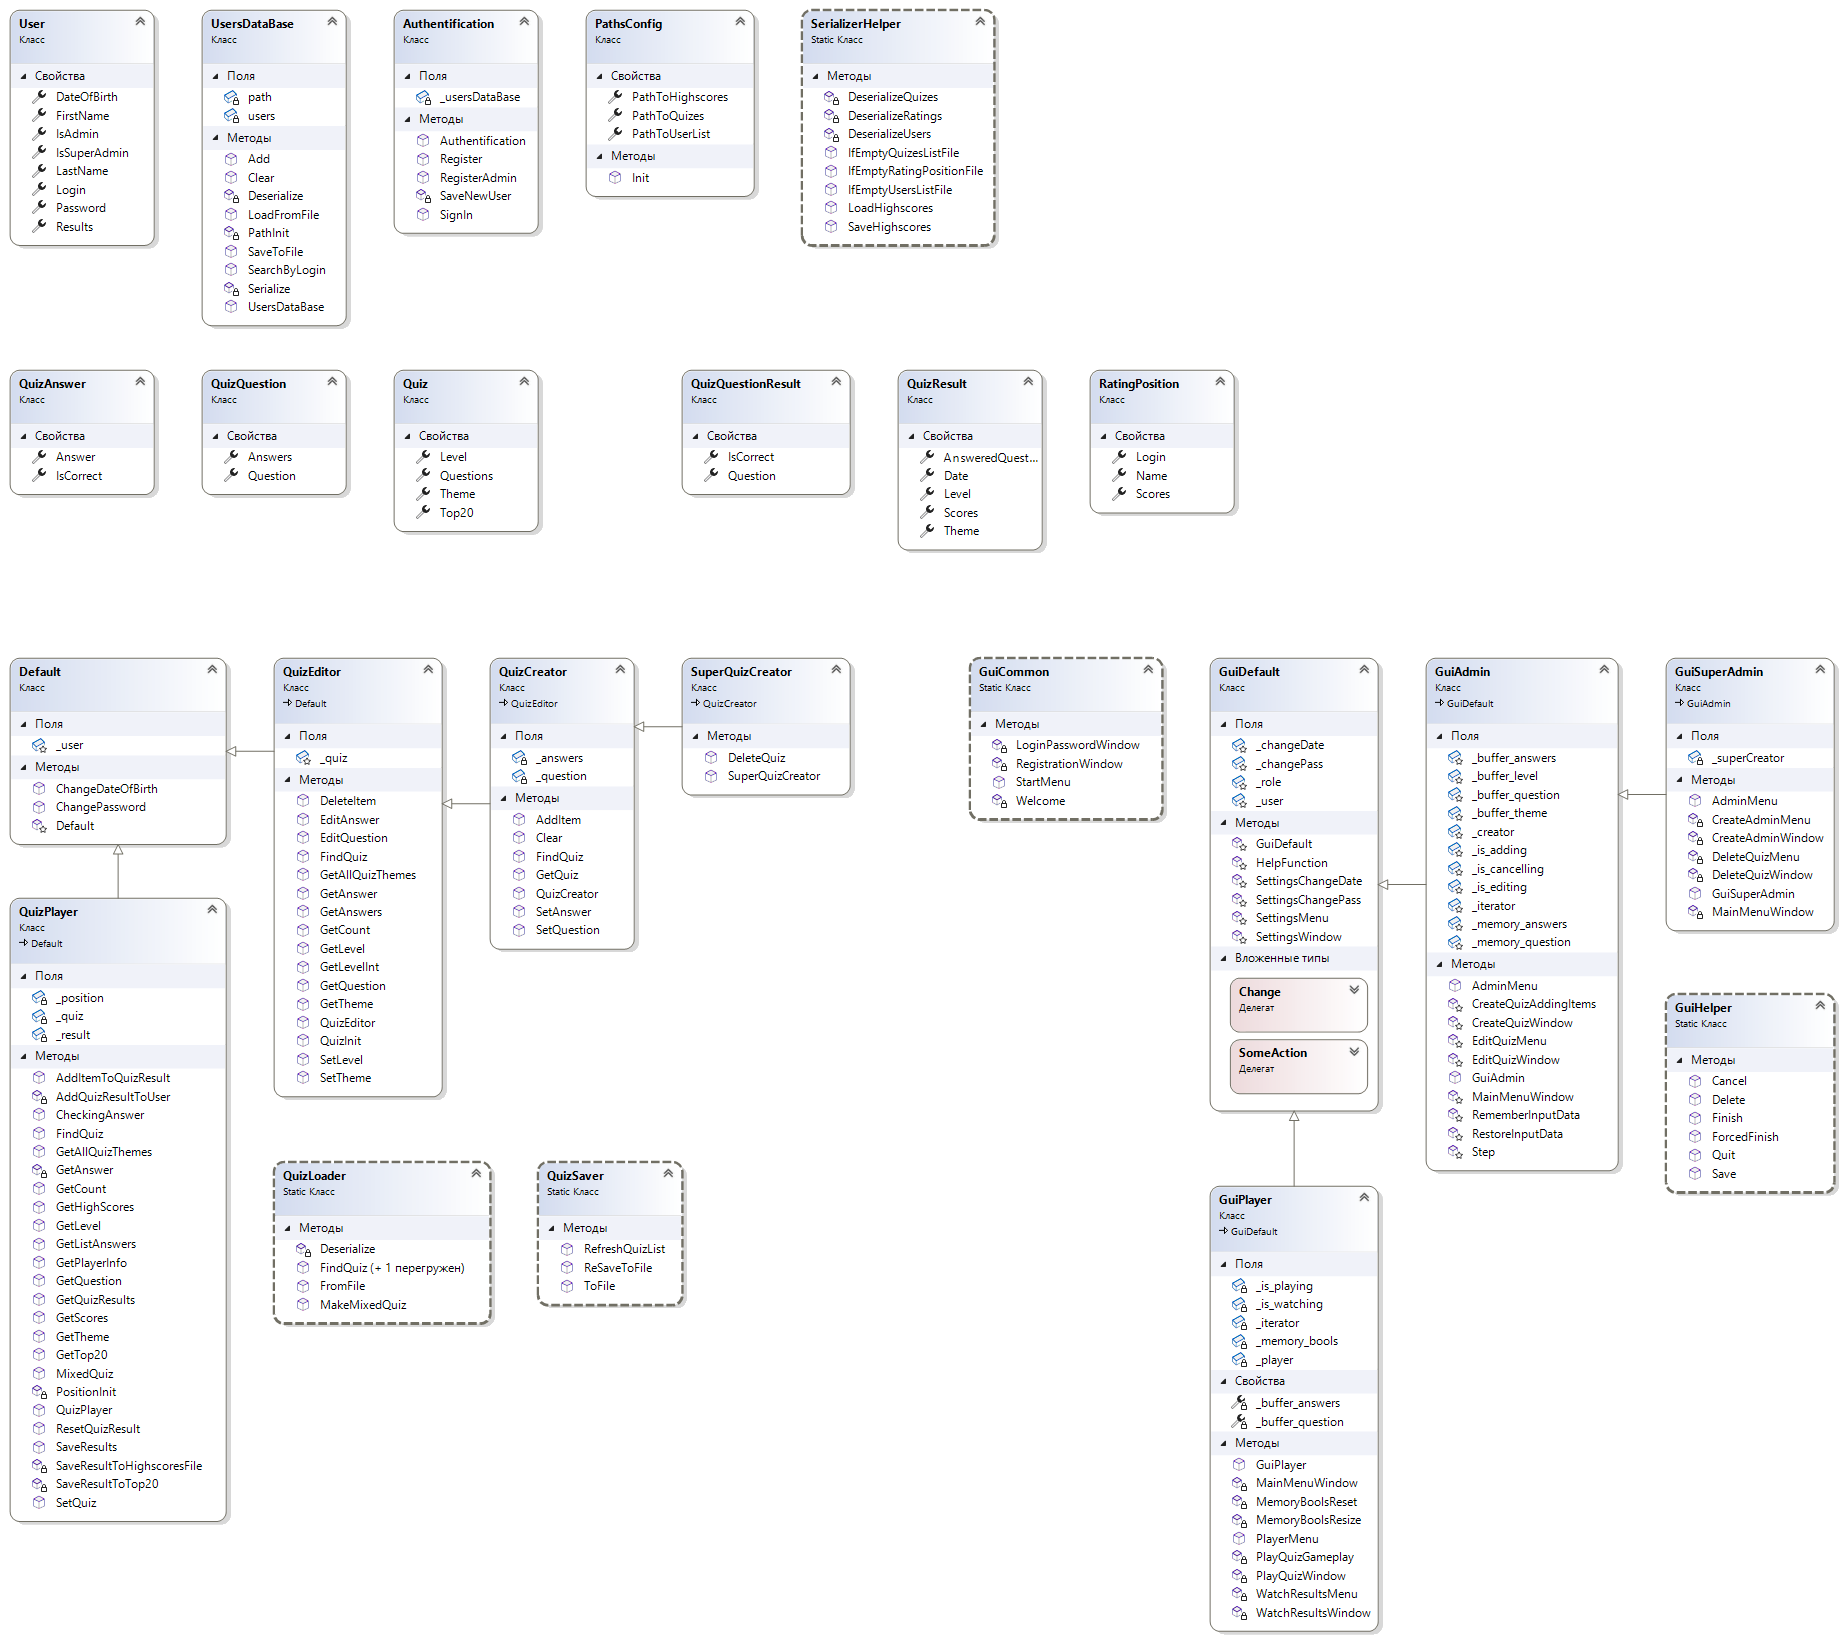
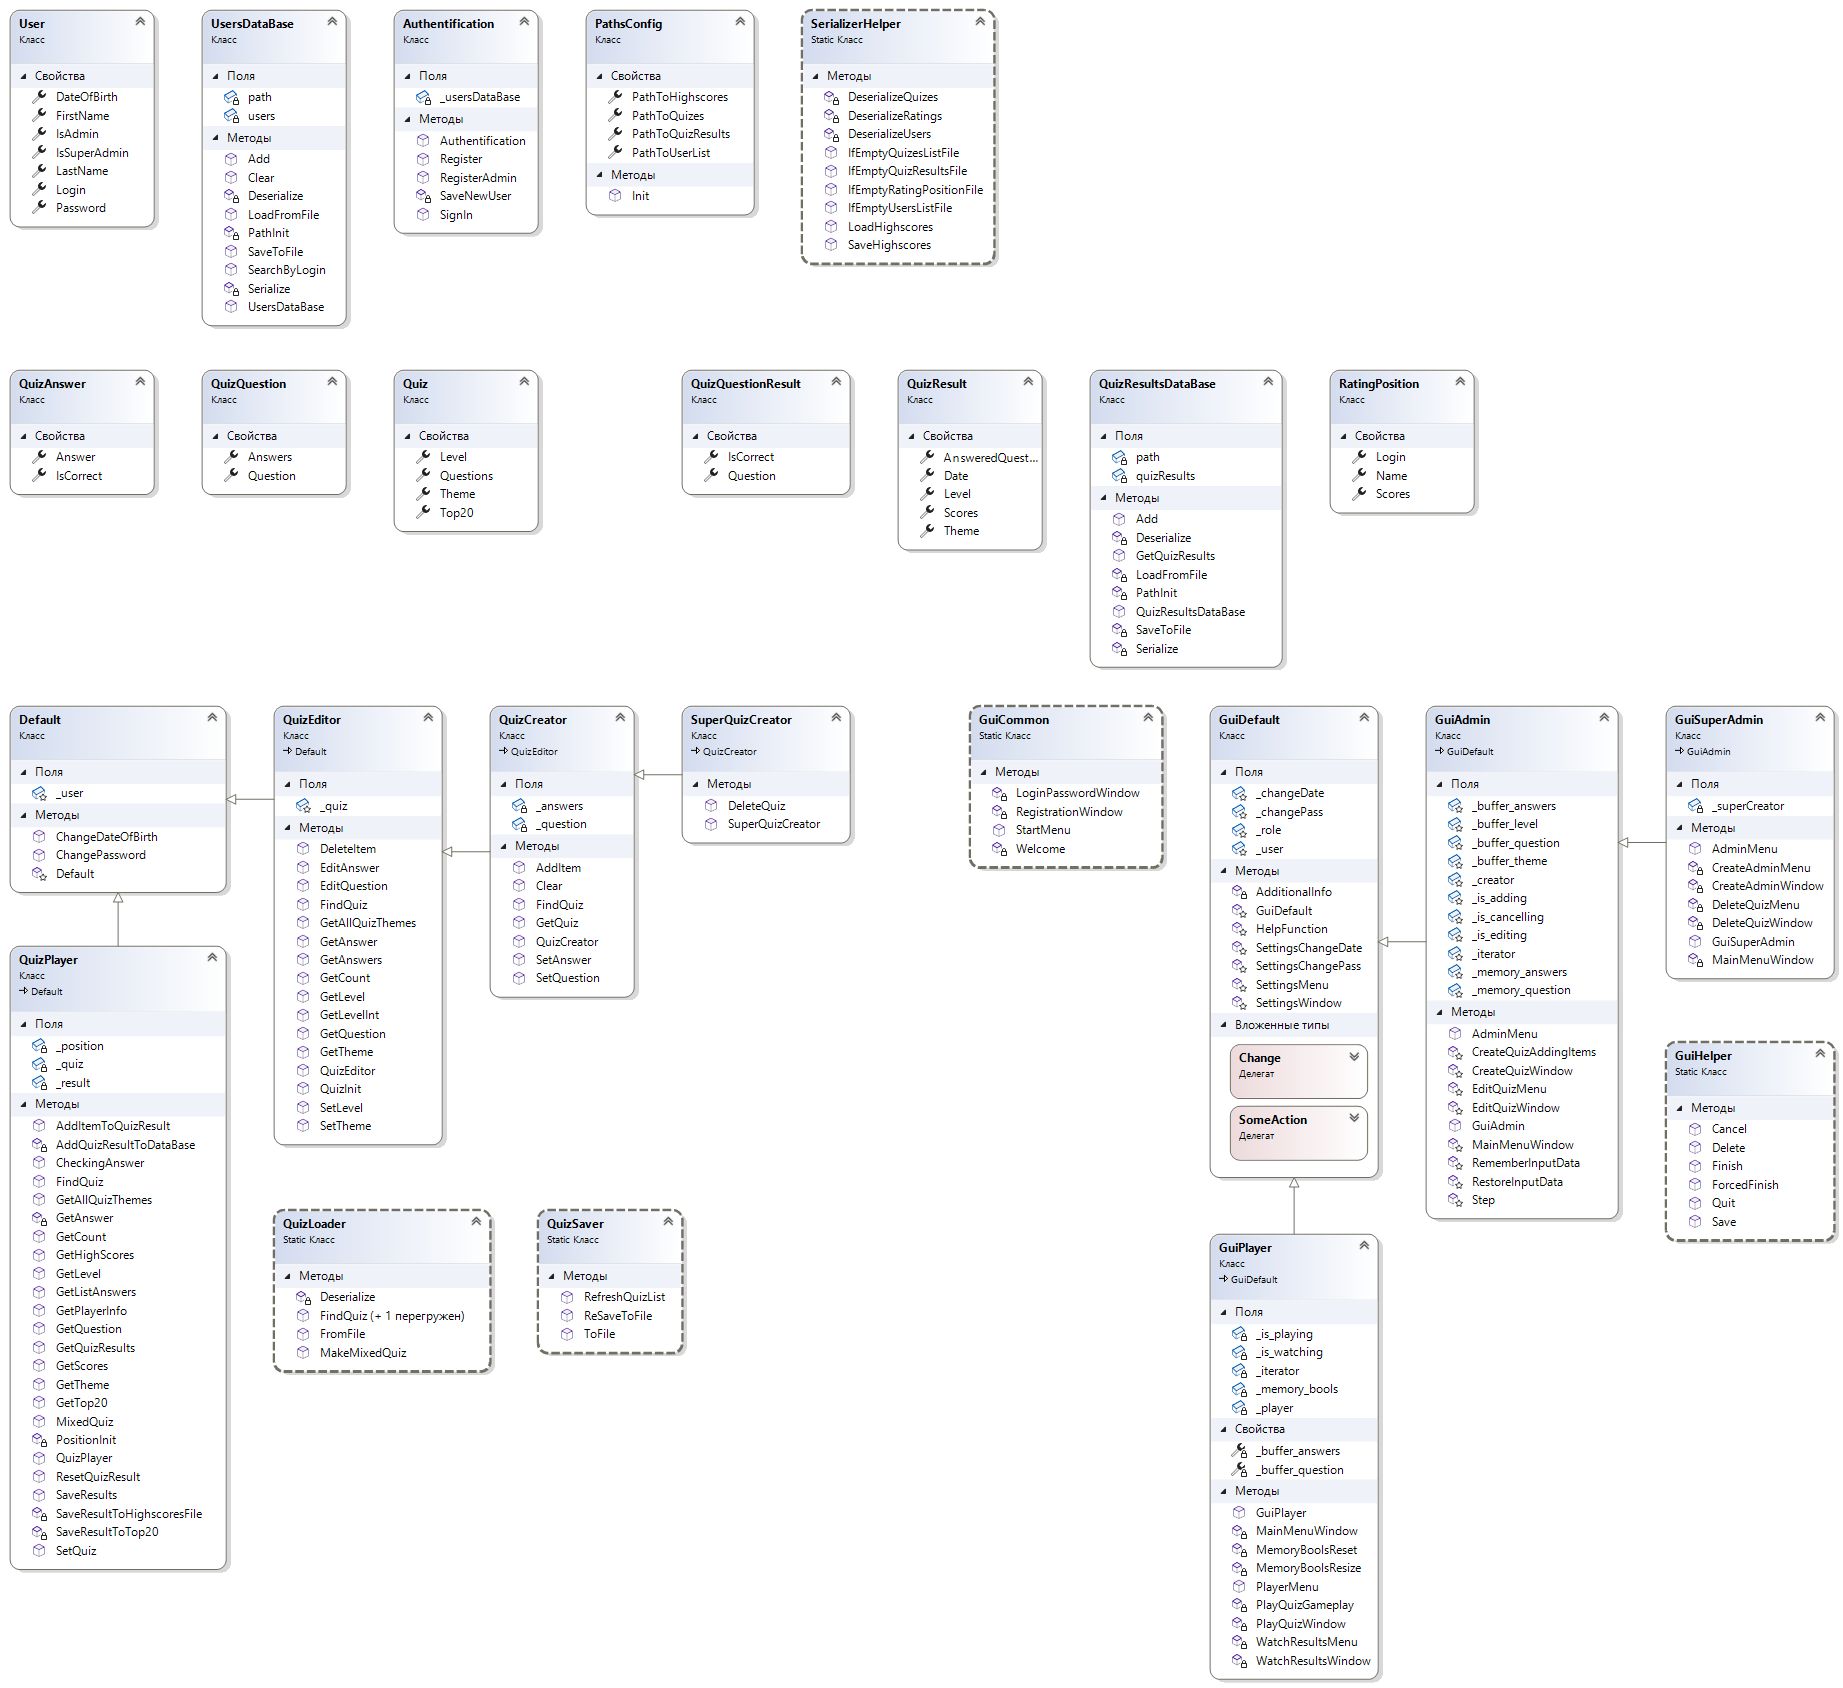
Moved QuizResults to a separate DB!

diff --git a/Quizes/QuizResults/QuizResultsDataBase.cs b/Quizes/QuizResults/QuizResultsDataBase.cs
@@ -1,0 +1,89 @@
+using System.Text.Json;
+using QuizGame.Configs;
+using QuizGame.Helpers;
+
+namespace QuizGame.Quizes.QuizResults
+{
+    public class QuizResultsDataBase
+    {
+        private Dictionary<string, List<QuizResult>>? quizResults;
+        private readonly string path;
+        public QuizResultsDataBase()
+        {
+            path = PathInit();
+        }
+        public void Add(string login, QuizResult result)
+        {
+            LoadFromFile();
+            if (quizResults is not null)
+            {
+                if (quizResults.ContainsKey(login))
+                {
+                    quizResults[login].Add(result);
+                }
+                else
+                {
+                    quizResults.Add(login, new List<QuizResult> { result });
+                }
+            }
+            else
+            {
+                quizResults = new()
+                {
+                    { login, new List<QuizResult> { result } }
+                };
+            }
+            SaveToFile();
+        }
+        private void SaveToFile()
+        {
+            File.Delete(path + "QuizResults.json");
+            using var file = new FileStream(path + "QuizResults.json", FileMode.Create, FileAccess.Write);
+            Serialize(file, quizResults!);
+        }
+        private void LoadFromFile()
+        {
+            if (!Directory.Exists(path))
+            {
+                Directory.CreateDirectory(path);
+                FileStream? helpfile = null;
+                var file = new FileStream(path + "QuizResults.json", FileMode.OpenOrCreate, FileAccess.Read);
+                var newfile = SerializerHelper.IfEmptyQuizResultsFile(ref file, ref helpfile!, path + "QuizResults.json");
+                var results = Deserialize(newfile);
+                newfile.Close();
+                quizResults = results!;
+            }
+            else
+            {
+                var file = new FileStream(path + "QuizResults.json", FileMode.Open, FileAccess.Read);
+                var results = Deserialize(file);
+                file.Close();
+                quizResults = results!;
+            }
+        }
+        private string PathInit()
+        {
+            return PathsConfig.Init().PathToQuizResults!;
+        }
+        private Dictionary<string, List<QuizResult>> Deserialize(FileStream file)
+        {
+            return JsonSerializer.DeserializeAsync<Dictionary<string, List<QuizResult>>>(file).AsTask().Result!;
+        }
+        private void Serialize(FileStream file, Dictionary<string, List<QuizResult>> results)
+        {
+            JsonSerializer.SerializeAsync(file, results);
+        }
+        public List<QuizResult>? GetQuizResults(string login)
+        {
+            LoadFromFile();
+            if (quizResults!.ContainsKey(login))
+            {
+                return quizResults![login];
+            }
+            else
+            {
+                return new List<QuizResult>();
+            }
+        }
+    }
+}

diff --git a/GUI/GUIDefault.cs b/GUI/GUIDefault.cs
@@ -1,4 +1,5 @@
 using QuizGame.Helpers;
+using QuizGame.Quizes.QuizResults;
 using QuizGame.Users;
 using Terminal.Gui;
 
@@ -74,9 +75,9 @@ namespace QuizGame.GUI
             {new MenuItem ("_Logout", "", () => { logout=true; top.Running = false; }),
              new MenuItem("_Quit", "", () => {  if (GuiHelper.Quit()) {keep_on = false;top.Running = false; } }) })});
             top.Add(menu);
-            var hello = new Label(_role)
+            var hello = new Label($"{AdditionalInfo()}{_role}")
             {
-                X = Pos.AnchorEnd(_role.Length) - 1,
+                X = Pos.AnchorEnd($"{AdditionalInfo()}{_role}".Length) - 1,
                 Y = Pos.AnchorEnd(1),
                 ColorScheme = Colors.Menu
             };
@@ -139,9 +140,9 @@ namespace QuizGame.GUI
             {new MenuItem ("_Logout", "", () => { logout=true; top.Running = false; }),
              new MenuItem("_Quit", "", () => {  if (GuiHelper.Quit()) {keep_on = false; top.Running = false;} }) })});
             top.Add(menu);
-            var hello = new Label(_role)
+            var hello = new Label($"{AdditionalInfo()}{_role}")
             {
-                X = Pos.AnchorEnd(_role.Length) - 1,
+                X = Pos.AnchorEnd($"{AdditionalInfo()}{_role}".Length) - 1,
                 Y = Pos.AnchorEnd(1),
                 ColorScheme = Colors.Menu
             };
@@ -237,9 +238,9 @@ namespace QuizGame.GUI
             {new MenuItem ("_Logout", "", () => { logout=true; top.Running = false; }),
              new MenuItem("_Quit", "", () => {  if (GuiHelper.Quit()) {keep_on = false; top.Running = false;} }) })});
             top.Add(menu);
-            var hello = new Label(_role)
+            var hello = new Label($"{AdditionalInfo()}{_role}")
             {
-                X = Pos.AnchorEnd(_role.Length) - 1,
+                X = Pos.AnchorEnd($"{AdditionalInfo()}{_role}".Length) - 1,
                 Y = Pos.AnchorEnd(1),
                 ColorScheme = Colors.Menu
             };
@@ -339,6 +340,29 @@ namespace QuizGame.GUI
         protected (bool keep_on, bool logout, bool back, SomeAction action) HelpFunction()
         {
             return (true, false, false, SettingsWindow);
+        }
+        private string AdditionalInfo()
+        {
+            if (!_user.IsAdmin && !_user.IsSuperAdmin)
+            {
+                var quizes_passed = 0;
+                var total_scores = 0;
+                var database = new QuizResultsDataBase();
+                var list = database.GetQuizResults(_user.Login!);
+                if (list!.Count > 0)
+                {
+                    quizes_passed = list.Count;
+                    foreach (var item in list)
+                    {
+                        total_scores += item.Scores;
+                    }
+                }
+                return $"Quizes passed: {quizes_passed} | Total Scores: {total_scores} | ";
+            }
+            else
+            {
+                return "";
+            }
         }
     }
 }

diff --git a/Features/QuizPlayer.cs b/Features/QuizPlayer.cs
@@ -98,31 +98,13 @@ namespace QuizGame.Features
             _result!.AnsweredQuestions!.Add(item);
             if (is_correct) _result.Scores++;
         }
-        private void AddQuizResultToUser()
+        private void AddQuizResultToDataBase()
         {
             _result!.Theme = _quiz!.Theme;
             _result.Level = _quiz.Level;
             _result.Date = $"{DateTime.Now:g}";
-            var database = new UsersDataBase();
-            database.LoadFromFile();
-            var user = database.SearchByLogin(_user.Login!);
-            if (user!.Results is not null && _user!.Results is not null)
-            {
-                user.Results.Add(_result);
-                _user.Results.Add(_result);
-            }
-            else
-            {
-                user.Results = new()
-                {
-                    _result
-                };
-                _user.Results = new()
-                {
-                    _result
-                };
-            }
-            database.SaveToFile();
+            var database = new QuizResultsDataBase();
+            database.Add(_user.Login!, _result);
         }
         private void PositionInit()
         {
@@ -174,7 +156,7 @@ namespace QuizGame.Features
         }
         public void SaveResults(bool is_mixed)
         {
-            AddQuizResultToUser();
+            AddQuizResultToDataBase();
             PositionInit();
             if (!is_mixed)
             {
@@ -221,10 +203,8 @@ namespace QuizGame.Features
         }
         public List<QuizResult>? GetQuizResults()
         {
-            var database = new UsersDataBase();
-            database.LoadFromFile();
-            var user = database.SearchByLogin(_user.Login!);
-            return user!.Results;
+            var database = new QuizResultsDataBase();
+            return database.GetQuizResults(_user.Login!);
         }
         public void ResetQuizResult()
         {
@@ -241,13 +221,12 @@ namespace QuizGame.Features
         {
             var quizes_passed = 0;
             var total_scores = 0;
-            var database = new UsersDataBase();
-            database.LoadFromFile();
-            var user = database.SearchByLogin(_user.Login!);
-            if (user!.Results is not null)
+            var database = new QuizResultsDataBase();
+            var list = database.GetQuizResults(_user.Login!);
+            if (list!.Count > 0)
             {
-                quizes_passed = user.Results.Count;
-                foreach (var item in user.Results)
+                quizes_passed = list.Count;
+                foreach (var item in list)
                 {
                     total_scores += item.Scores;
                 }

diff --git a/Configs/PathsConfig.cs b/Configs/PathsConfig.cs
@@ -7,16 +7,18 @@ namespace QuizGame.Configs
         public string? PathToUserList { get; set; }
         public string? PathToHighscores { get; set; }
         public string? PathToQuizes { get; set; }
+        public string? PathToQuizResults { get; set; }
         public static PathsConfig Init()
         {
             using var file = new FileStream("PathsConfig.json", FileMode.Open, FileAccess.Read);
             var config = JsonSerializer.DeserializeAsync<PathsConfig>(file).AsTask().Result;
-            if (config!.PathToUserList == "" || config.PathToHighscores == "" || config.PathToQuizes == "")
+            if (config!.PathToUserList == "" || config.PathToHighscores == "" || config.PathToQuizes == "" || config.PathToQuizResults == "")
             {
-                config.PathToUserList = config.PathToHighscores = config.PathToQuizes = Environment.GetFolderPath(Environment.SpecialFolder.Desktop);
+                config.PathToUserList = config.PathToHighscores = config.PathToQuizes = config.PathToQuizResults = Environment.GetFolderPath(Environment.SpecialFolder.Desktop);
                 config.PathToUserList += @"\\MyQuizGame\\Users\\";
                 config.PathToHighscores += @"\\MyQuizGame\\Highscores\\";
                 config.PathToQuizes += @"\\MyQuizGame\\Quizes\\";
+                config.PathToQuizResults += @"\\MyQuizGame\\QuizResults\\";
             }
             return config;
         }

diff --git a/Helpers/SerializerHelper.cs b/Helpers/SerializerHelper.cs
@@ -54,6 +54,20 @@ namespace QuizGame.Helpers
             }
             return file;
         }
+        public static FileStream IfEmptyQuizResultsFile(ref FileStream file, ref FileStream helpfile, string path)
+        {
+            if (file.Length == 0)
+            {
+                file.Close();
+                var testrecord = new Dictionary<string, List<QuizResult>>();
+                var tempfile = new FileStream(path, FileMode.Open, FileAccess.Write);
+                JsonSerializer.SerializeAsync(tempfile, testrecord);
+                tempfile.Close();
+                helpfile = new FileStream(path, FileMode.Open, FileAccess.Read);
+                return helpfile;
+            }
+            return file;
+        }
         public static void SaveHighscores(RatingPosition position)
         {
             var path = PathsConfig.Init().PathToHighscores;

diff --git a/Users/UsersDataBase.cs b/Users/UsersDataBase.cs
@@ -51,7 +51,7 @@ namespace QuizGame.Users
         {
             users.Clear();
         }
-        private static string PathInit()
+        private string PathInit()
         {
             return PathsConfig.Init().PathToUserList!;
         }
@@ -59,7 +59,7 @@ namespace QuizGame.Users
         {
             return JsonSerializer.DeserializeAsync<List<User>>(file).AsTask().Result!;
         }
-        private static void Serialize(FileStream file, List<User> users)
+        private void Serialize(FileStream file, List<User> users)
         {
             JsonSerializer.SerializeAsync(file, users);
         }

diff --git a/Users/User.cs b/Users/User.cs
@@ -1,5 +1,3 @@
-using QuizGame.Quizes.QuizResults;
-
 namespace QuizGame.Users
 {
     public class User
@@ -11,6 +9,5 @@ namespace QuizGame.Users
         public string? Password { get; set; }
         public bool IsAdmin { get; set; }
         public bool IsSuperAdmin { get; set; }
-        public List<QuizResult>? Results { get; set; }
     }
 }

diff --git a/GUI/GUIPlayer.cs b/GUI/GUIPlayer.cs
@@ -539,7 +539,7 @@ namespace QuizGame.GUI
                     X = Pos.Center(),
                     Y = 2
                 };
-                if (list is not null)
+                if (list!.Count > 0)
                 {
                     int i = 0;
                     int space = 4;
